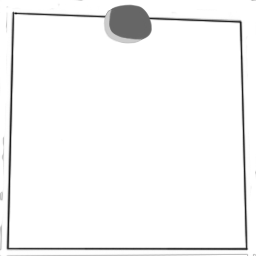
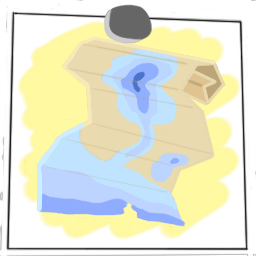
Upgrade images for fish cues. Also making one item's description shorter so it hopefully won't make the sign scroll when on mobile.

diff --git a/gofish_project/gofish/engine/gamedef.py b/gofish_project/gofish/engine/gamedef.py
@@ -78,7 +78,7 @@ GAME = {
             'name': 'Underwater Camera',
             'cueDetail': 2,
             'price': 200,
-            'description': 'It\'s easier to catch fish when you can see \'em.',
+            'description': 'See what you\'re fishing for.',
         }, {
             'name': 'Old Sonar',
             'cueDetail': 3,
